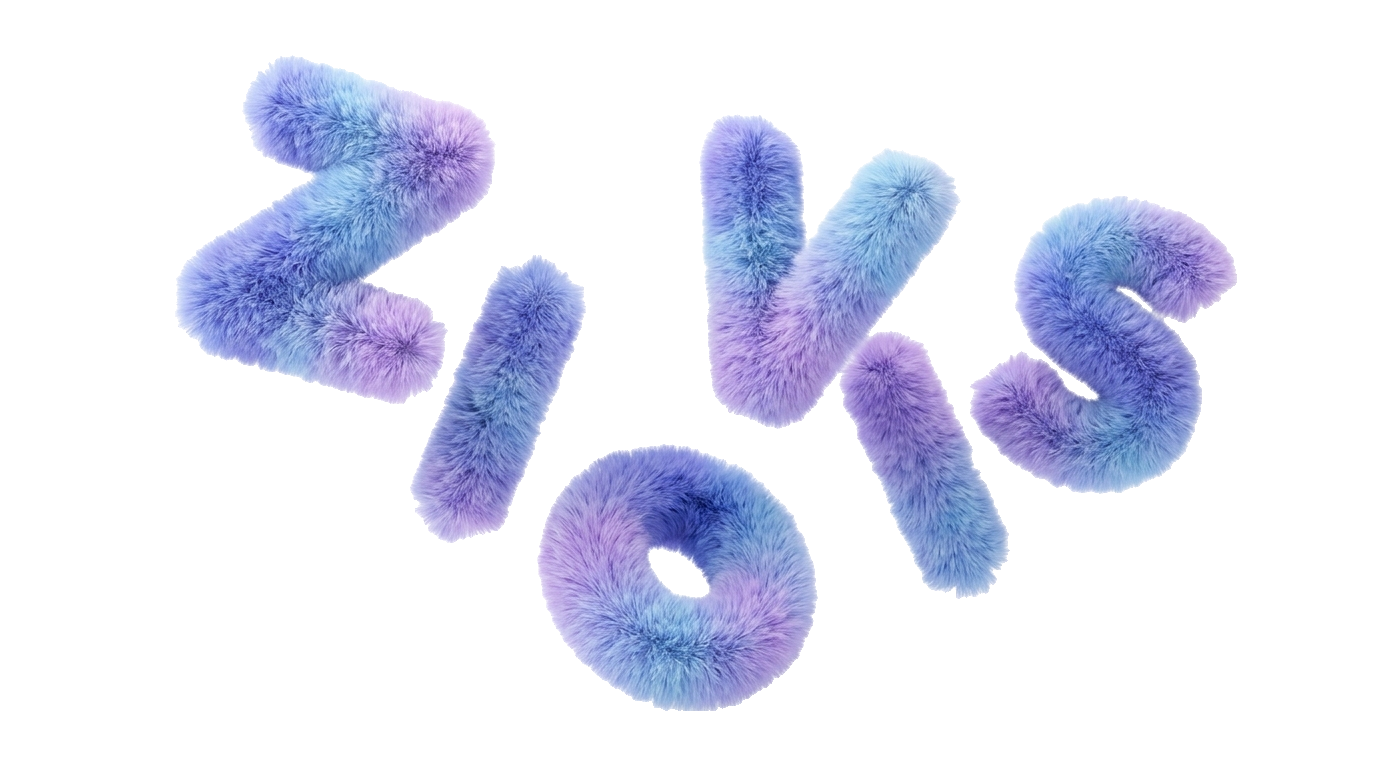
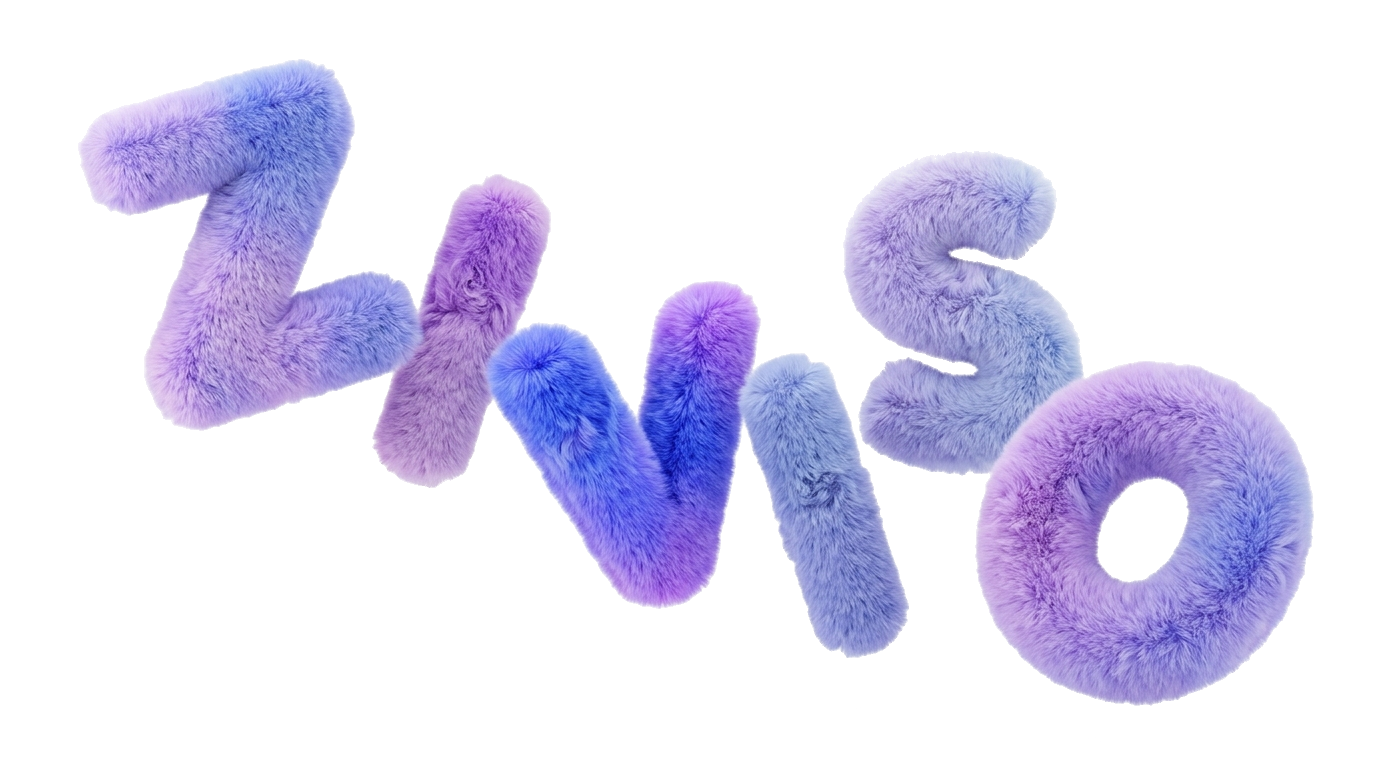
feat(ui): spread out and enlarge furry letters with authentic translucent liquid-glass forefront

diff --git a/mentora-admin/src/index.css b/mentora-admin/src/index.css
@@ -30,14 +30,15 @@
 :root,
 [data-theme='dark'] {
   --background: #080B16;
-  --surface: #10162B;
-  --surface-elevated: #161E38;
-  --surface-sunken: #050811;
+  --surface: rgba(14, 18, 36, 0.62);
+  --surface-solid: #10162B;
+  --surface-elevated: rgba(22, 28, 54, 0.72);
+  --surface-sunken: rgba(5, 8, 17, 0.55);
   --primary: #5C67F2;
   --primary-hover: #4D57E6;
   --primary-light: #818CF8;
   --primary-glow: rgba(92, 103, 242, 0.4);
-  --border: rgba(165, 180, 252, 0.12);
+  --border: rgba(165, 180, 252, 0.14);
   --border-highlight: rgba(255, 255, 255, 0.16);
   --text: #F8FAFC;
   --text-muted: #94A3B8;
@@ -50,15 +51,16 @@
 /* ---------- Light theme (Airy Frosted Lilac Glass) ---------- */
 [data-theme='light'] {
   --background: #F4F6FF;
-  --surface: #FFFFFF;
-  --surface-elevated: #FFFFFF;
-  --surface-sunken: #EAEFFE;
+  --surface: rgba(255, 255, 255, 0.68);
+  --surface-solid: #FFFFFF;
+  --surface-elevated: rgba(255, 255, 255, 0.82);
+  --surface-sunken: rgba(234, 239, 254, 0.60);
   --primary: #5551FF;
   --primary-hover: #433FE6;
   --primary-light: #6366F1;
   --primary-glow: rgba(85, 81, 255, 0.25);
-  --border: rgba(99, 102, 241, 0.14);
-  --border-highlight: rgba(255, 255, 255, 0.85);
+  --border: rgba(99, 102, 241, 0.16);
+  --border-highlight: rgba(255, 255, 255, 0.95);
   --text: #0F172A;
   --text-muted: #64748B;
   --success: #059669;
@@ -79,25 +81,32 @@
 
 /* ============================================================
    LIQUID GLASS & GLASSMORPHISM UTILITIES
+   Translucent, ultra-modern Apple / Edtech fluid glass surfaces
+   that reveal cozy background elements beneath.
    ============================================================ */
 .liquid-glass {
-  background: radial-gradient(circle at 10% 10%, rgba(255, 255, 255, 0.08), transparent 70%), var(--surface);
-  backdrop-filter: blur(24px) saturate(180%);
-  -webkit-backdrop-filter: blur(24px) saturate(180%);
+  background: linear-gradient(135deg, rgba(255, 255, 255, 0.12) 0%, rgba(255, 255, 255, 0.03) 100%), var(--surface);
+  backdrop-filter: blur(20px) saturate(190%);
+  -webkit-backdrop-filter: blur(20px) saturate(190%);
   border: 1px solid var(--border);
   box-shadow: 
-    inset 0 1px 1px 0 rgba(255, 255, 255, 0.14),
-    0 20px 40px -15px rgba(0, 0, 0, 0.4);
+    inset 0 1px 1.5px 0 var(--border-highlight),
+    0 16px 36px -12px rgba(0, 0, 0, 0.22);
 }
 
 .liquid-glass-subtle {
   background: var(--surface);
-  backdrop-filter: blur(16px);
-  -webkit-backdrop-filter: blur(16px);
+  backdrop-filter: blur(16px) saturate(160%);
+  -webkit-backdrop-filter: blur(16px) saturate(160%);
   border: 1px solid var(--border);
   box-shadow: 
-    inset 0 1px 0 0 rgba(255, 255, 255, 0.08),
-    0 10px 25px -5px rgba(0, 0, 0, 0.25);
+    inset 0 1px 1px 0 var(--border-highlight),
+    0 10px 24px -6px rgba(0, 0, 0, 0.16);
+}
+
+.bg-surface {
+  backdrop-filter: blur(16px);
+  -webkit-backdrop-filter: blur(16px);
 }
 
 /* ============================================================

diff --git a/mentora-admin/src/components/ZivisoArtisticBackground.tsx b/mentora-admin/src/components/ZivisoArtisticBackground.tsx
@@ -8,12 +8,12 @@ interface ZivisoArtisticBackgroundProps {
 /**
  * ZivisoArtisticBackground
  * 
- * Displays large, cozy 3D furry plush letters spelling Z-I-V-I-S-O
- * in an artistic tumbling/floating arrangement.
+ * Displays large, spread-out 3D plush furry letters spelling Z-I-V-I-S-O
+ * floating gracefully across the center canvas.
  * 
- * Rendered with 100% transparent alpha falloff so the plush fibers blend seamlessly
- * into both light and dark backgrounds beneath liquid-glass cards without any solid gray border.
- * Centered and scaled generously to provide warm visual interest right in the center.
+ * Rendered with 100% transparent edges and enhanced opacity/scale so the soft,
+ * vibrant furry fibers are clearly visible through the translucent liquid-glass
+ * forefront cards in both light and dark mode.
  */
 export default function ZivisoArtisticBackground({ 
   offsetSidebar = true,
@@ -26,15 +26,15 @@ export default function ZivisoArtisticBackground({
       } ${className}`}
       aria-hidden="true"
     >
-      {/* Soft central ambient lilac-indigo aura behind the furry letters */}
-      <div className="absolute w-[500px] sm:w-[750px] lg:w-[950px] h-[320px] sm:h-[450px] rounded-full bg-primary/12 dark:bg-primary/20 blur-[130px] pointer-events-none -z-10 animate-pulse duration-[8000ms]" />
+      {/* Rich ambient lilac-periwinkle aura glowing behind the letters */}
+      <div className="absolute w-[90%] max-w-[1200px] h-[380px] sm:h-[500px] rounded-full bg-primary/20 dark:bg-primary/30 blur-[140px] pointer-events-none -z-10 animate-pulse duration-[8000ms]" />
 
-      {/* Floating 3D Furry Z-I-V-I-S-O Composition */}
-      <div className="relative flex items-center justify-center w-full px-4 sm:px-8 py-6 animate-float-slow">
+      {/* Spaced-Out, Bigger 3D Furry Z-I-V-I-S-O Composition */}
+      <div className="relative flex items-center justify-center w-full px-2 sm:px-6 py-4 animate-float-slow">
         <img
           src="/ziviso-furry-letters.png"
           alt="ZIVISO Furry Letters"
-          className="w-[92%] sm:w-[86%] max-w-[950px] lg:max-w-[1150px] xl:max-w-[1300px] h-auto object-contain select-none transition-all duration-700 opacity-40 sm:opacity-50 dark:opacity-60 drop-shadow-[0_20px_50px_rgba(92,103,242,0.30)] dark:drop-shadow-[0_25px_60px_rgba(129,140,248,0.40)] hover:scale-[1.02]"
+          className="w-[98%] sm:w-[94%] max-w-[1150px] lg:max-w-[1400px] xl:max-w-[1650px] h-auto object-contain select-none transition-all duration-700 opacity-60 sm:opacity-70 dark:opacity-80 drop-shadow-[0_25px_60px_rgba(92,103,242,0.40)] dark:drop-shadow-[0_30px_70px_rgba(129,140,248,0.50)]"
           draggable={false}
         />
       </div>

diff --git a/mentora-admin/src/pages/Dashboard.tsx b/mentora-admin/src/pages/Dashboard.tsx
@@ -278,7 +278,7 @@ export default function Dashboard() {
 
             <Link
               to="/courses"
-              className="flex items-center gap-3.5 p-4 rounded-3xl bg-surface border border-border hover:border-primary/40 transition-all shadow-sm active:scale-[0.98]"
+              className="flex items-center gap-3.5 p-4 rounded-3xl liquid-glass hover:border-primary/40 transition-all shadow-sm active:scale-[0.98]"
             >
               <div className="w-12 h-12 rounded-2xl bg-blue-500/10 text-blue-500 flex items-center justify-center shrink-0">
                 <BookOpen className="w-6 h-6" />
@@ -302,7 +302,7 @@ export default function Dashboard() {
           </div>
           
           {/* DEVELOPMENT ONLY: Extracted Content Table */}
-          <div className="bg-surface border border-border rounded-3xl p-6 mt-6">
+          <div className="liquid-glass rounded-3xl p-6 mt-6">
             <h2 className="text-xl font-bold text-text mb-4">Development Only: Extracted Questions</h2>
             <div className="overflow-x-auto">
               <table className="w-full text-left border-collapse">
